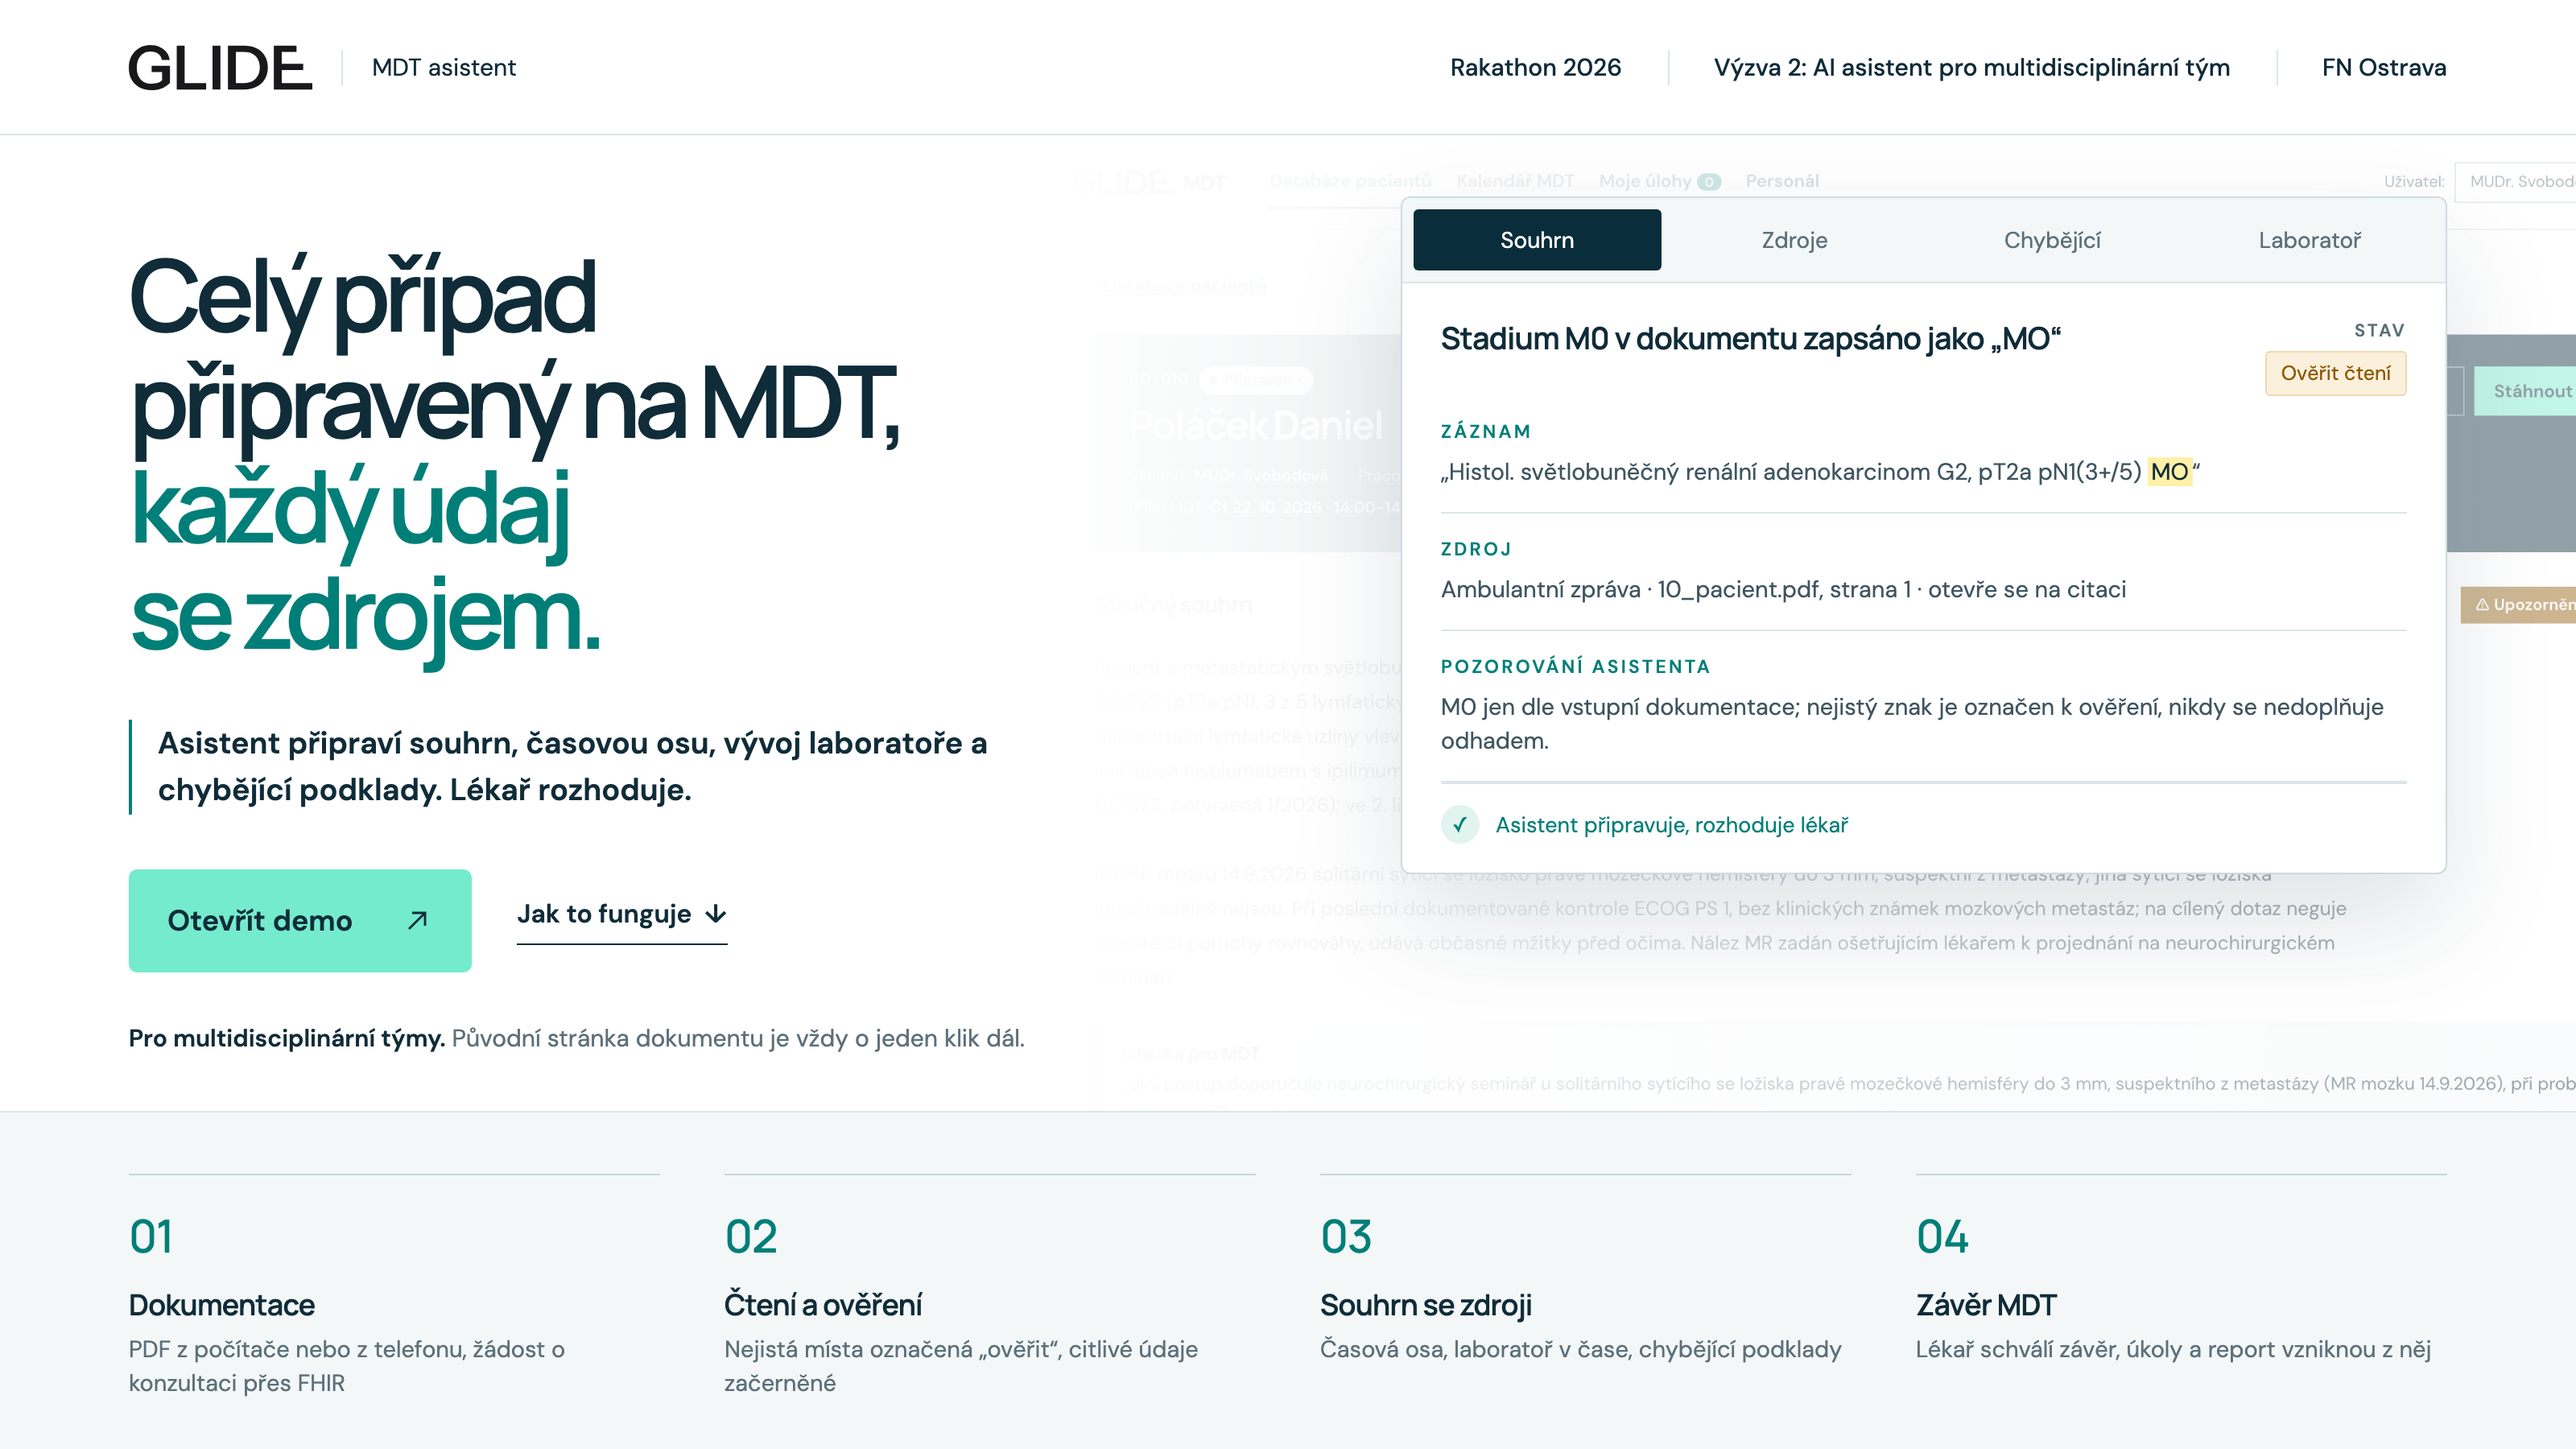
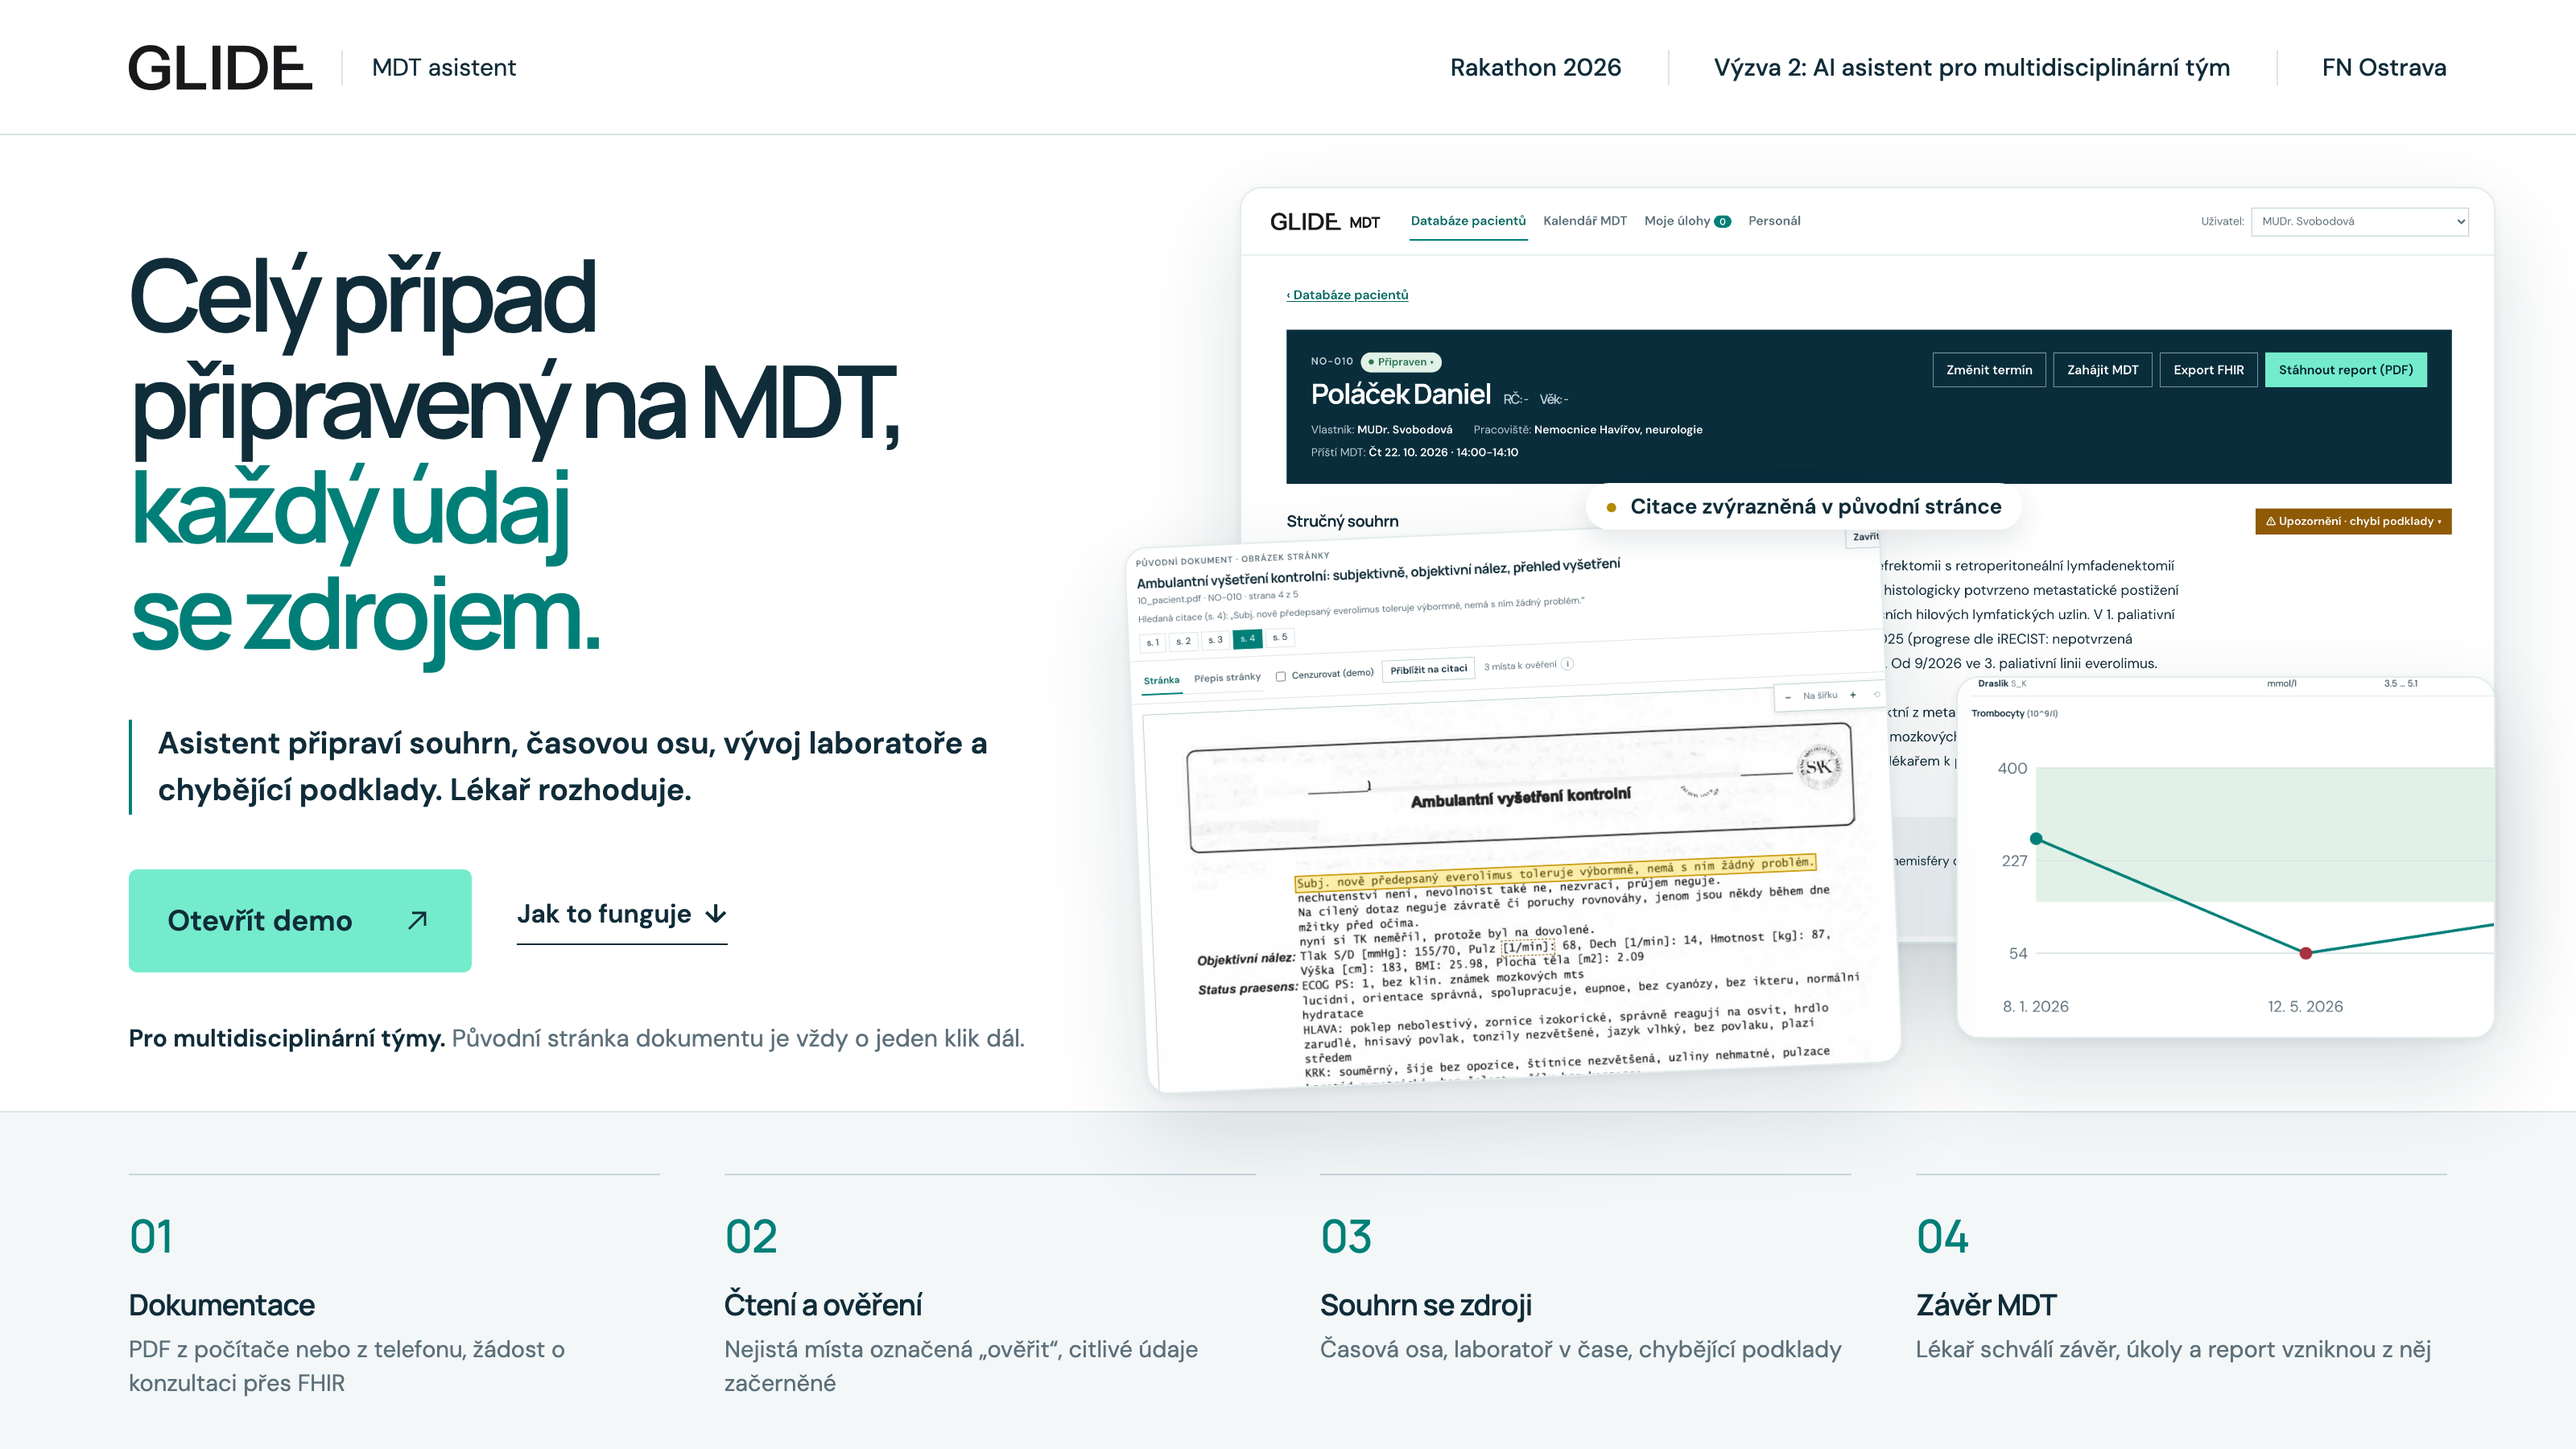
Cover: bring back the floating app screenshots on the right, keep the GLIDE-style left side and steps

diff --git a/scripts/cover/cover.html b/scripts/cover/cover.html
@@ -2,8 +2,8 @@
 <html lang="cs"><head><meta charset="utf-8">
 <!-- Cover image for the project gallery, 1600x900. Rendered by scripts/cover/build.mjs.
      Design follows glideanalysis.com: its tokens (ink, teal, mint, navy, line, surface), Manrope with tight tracking,
-     a two-tone headline, a ruled subtitle, a mint button with a thin arrow, uppercase teal labels, an evidence card,
-     numbered steps under thin rules, and a photo faded into white (here: a real screen of the app). -->
+     a two-tone headline, a ruled subtitle, a mint button with a thin arrow, and numbered steps under thin rules.
+     The right side shows real screens of the app as floating cards. -->
 <link href="https://fonts.googleapis.com/css2?family=Manrope:wght@500;600;700&family=DM+Sans:wght@400;500;600&display=swap" rel="stylesheet">
 <style>
   :root { --ink:#102c39; --muted:#5d707a; --navy:#092d3b; --teal:#007f78; --mint:#74ebcc; --line:#dce5e8; --surface:#f3f7f8; --amber:#8f5a06; --amber-soft:#fbf0dc; }
@@ -18,11 +18,19 @@
   .top .right { margin-left:auto; display:flex; align-items:center; gap:28px; font-size:15px; font-weight:500; }
   .top .dark { background:var(--navy); color:#fff; font-weight:600; padding:14px 20px; border-radius:5px; display:flex; gap:22px; align-items:center; }
 
-  /* The app screen, faded into white from the left like the photo in GLIDE's hero. */
-  .screen { position:absolute; left:640px; top:84px; width:960px; height:606px; background:url(shots/overview.png) 0 0/1100px auto no-repeat; }
-  .screen::after { content:""; position:absolute; inset:0; background:linear-gradient(90deg,#fff 0%,rgba(255,255,255,.94) 25%,rgba(255,255,255,.7) 60%,rgba(255,255,255,.55) 100%); }
+  /* Real app screens as floating cards (the earlier version's right side): the case overview, the source view
+     with the boxed quote in front, and the platelet trend of S01. */
+  .shot-card { position:absolute; background:#fff; border-radius:14px; overflow:hidden; border:1px solid #e3ecee; box-shadow:0 24px 60px rgba(16,44,57,.14), 0 2px 6px rgba(16,44,57,.06); }
+  .shot-card .shot { position:absolute; inset:0; background-repeat:no-repeat; }
+  .main { left:770px; top:116px; width:780px; height:470px; z-index:1; }
+  .main .shot { background-image:url(shots/overview.png); background-size:780px auto; background-position:0 0; }
+  .src { left:705px; top:330px; width:470px; height:340px; transform:rotate(-2.5deg); z-index:2; }
+  .src .shot { background-image:url(shots/source.png); background-size:660px auto; background-position:-177px -2px; }
+  .labs { left:1215px; top:420px; width:335px; height:225px; z-index:2; }
+  .labs .shot { background-image:url(shots/labs.png); background-size:600px auto; background-position:-13px -118px; }
+  .tag { position:absolute; left:985px; top:300px; z-index:3; font-size:13px; font-weight:600; padding:6px 12px; border-radius:999px; background:#fff; box-shadow:0 6px 18px rgba(16,44,57,.12); display:flex; gap:8px; align-items:center; }
 
-  .hero { position:absolute; left:80px; top:150px; width:640px; z-index:2; }
+  .hero { position:absolute; left:80px; top:150px; width:640px; z-index:4; }
   h1 { font-family:Manrope,Arial,sans-serif; font-weight:600; font-size:62px; line-height:1.06; letter-spacing:-0.065em; }
   h1 .t { color:var(--teal); }
   .lede { margin-top:34px; padding-left:16px; border-left:2px solid var(--teal); font-size:19px; font-weight:600; line-height:1.55; max-width:560px; }
@@ -32,26 +40,6 @@
   .link { font-weight:600; font-size:16px; padding-bottom:8px; border-bottom:1px solid var(--ink); }
   .note { margin-top:30px; font-size:15px; color:var(--muted); line-height:1.5; max-width:560px; }
   .note b { color:var(--ink); }
-
-  /* Evidence card, after GLIDE's "Every finding comes with its evidence": tabs, a finding with a badge,
-     labelled sections, and the closing check. Content is a real observation from case 10. */
-  .card { position:absolute; left:870px; top:122px; width:650px; background:#fff; border:1px solid #cfdbdf; border-radius:6px; box-shadow:0 30px 70px rgba(9,45,59,.13); z-index:2; overflow:hidden; }
-  .tabs { display:grid; grid-template-columns:repeat(4,1fr); gap:6px; padding:7px; background:var(--surface); border-bottom:1px solid var(--line); }
-  .tabs span { text-align:center; font-size:14px; color:var(--muted); padding:10px 0; border-radius:3px; }
-  .tabs .on { background:var(--navy); color:#fff; }
-  .body { padding:22px 24px 18px; }
-  .row1 { display:flex; justify-content:space-between; gap:20px; }
-  .row1 h3 { font-family:Manrope; font-weight:600; font-size:19px; letter-spacing:-0.02em; line-height:1.3; }
-  .sev { text-align:right; flex:none; }
-  .sev small { display:block; font-size:11px; letter-spacing:.14em; color:var(--muted); font-weight:600; }
-  .badge { display:inline-block; margin-top:6px; font-size:12.5px; padding:5px 9px; border-radius:3px; background:var(--amber-soft); color:var(--amber); border:1px solid #efd9ae; }
-  .sec { padding:15px 0 13px; border-bottom:1px solid var(--line); }
-  .sec:last-of-type { border-bottom:none; }
-  .lab { font-size:11.5px; letter-spacing:.14em; font-weight:600; color:var(--teal); text-transform:uppercase; }
-  .sec p { margin-top:7px; font-size:14.5px; line-height:1.5; color:#3f5560; }
-  .sec mark { background:#fff0a8; color:var(--ink); padding:0 2px; }
-  .ok { display:flex; align-items:center; gap:10px; padding-top:13px; border-top:1px solid var(--line); font-size:13.5px; color:var(--teal); }
-  .ok i { width:24px; height:24px; border-radius:50%; background:#e1f4ee; display:grid; place-items:center; font-style:normal; font-size:13px; }
 
   /* Numbered steps under thin rules, as in GLIDE's "How it works". */
   .steps { position:absolute; left:0; right:0; bottom:0; height:210px; background:var(--surface); border-top:1px solid var(--line); padding:38px 80px 0; display:grid; grid-template-columns:repeat(4,1fr); gap:40px; }
@@ -66,8 +54,6 @@
     <div class="right"><span>Rakathon 2026</span><span class="div" style="margin:0"></span><span>Výzva 2: AI asistent pro multidisciplinární tým</span><span class="div" style="margin:0"></span><span>FN Ostrava</span></div>
   </div>
 
-  <div class="screen"></div>
-
   <div class="hero">
     <h1>Celý případ<br>připravený na MDT,<br><span class="t">každý údaj<br>se zdrojem.</span></h1>
     <p class="lede">Asistent připraví souhrn, časovou osu, vývoj laboratoře a chybějící podklady. Lékař rozhoduje.</p>
@@ -78,17 +64,10 @@
     <p class="note"><b>Pro multidisciplinární týmy.</b> Původní stránka dokumentu je vždy o jeden klik dál.</p>
   </div>
 
-  <div class="card">
-    <div class="tabs"><span class="on">Souhrn</span><span>Zdroje</span><span>Chybějící</span><span>Laboratoř</span></div>
-    <div class="body">
-      <div class="row1"><h3>Stadium M0 v dokumentu zapsáno jako „MO“</h3>
-        <div class="sev"><small>STAV</small><span class="badge">Ověřit čtení</span></div></div>
-      <div class="sec"><div class="lab">Záznam</div><p>„Histol. světlobuněčný renální adenokarcinom G2, pT2a pN1(3+/5) <mark>MO</mark>“</p></div>
-      <div class="sec"><div class="lab">Zdroj</div><p>Ambulantní zpráva · 10_pacient.pdf, strana 1 · otevře se na citaci</p></div>
-      <div class="sec"><div class="lab">Pozorování asistenta</div><p>M0 jen dle vstupní dokumentace; nejistý znak je označen k ověření, nikdy se nedoplňuje odhadem.</p></div>
-      <div class="ok"><i>✓</i>Asistent připravuje, rozhoduje lékař</div>
-    </div>
-  </div>
+  <div class="shot-card main"><div class="shot"></div></div>
+  <div class="shot-card labs"><div class="shot"></div></div>
+  <div class="shot-card src"><div class="shot"></div></div>
+  <div class="tag"><span style="color:#b38b00">●</span> Citace zvýrazněná v původní stránce</div>
 
   <div class="steps">
     <div class="step"><div class="n">01</div><b>Dokumentace</b><span>PDF z počítače nebo z telefonu, žádost o konzultaci přes FHIR</span></div>
